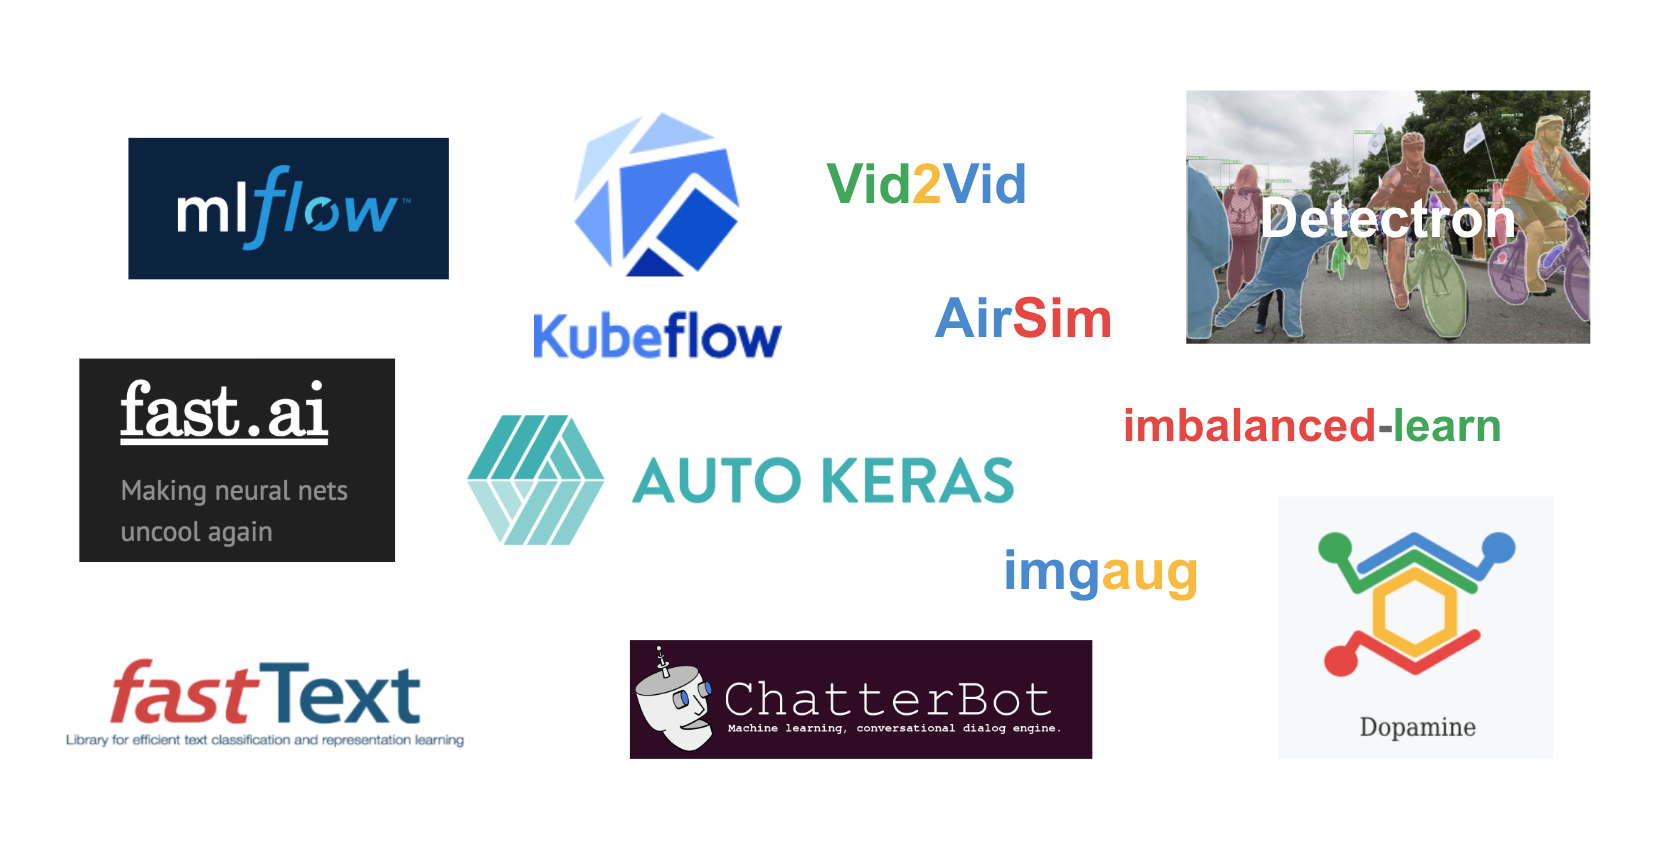
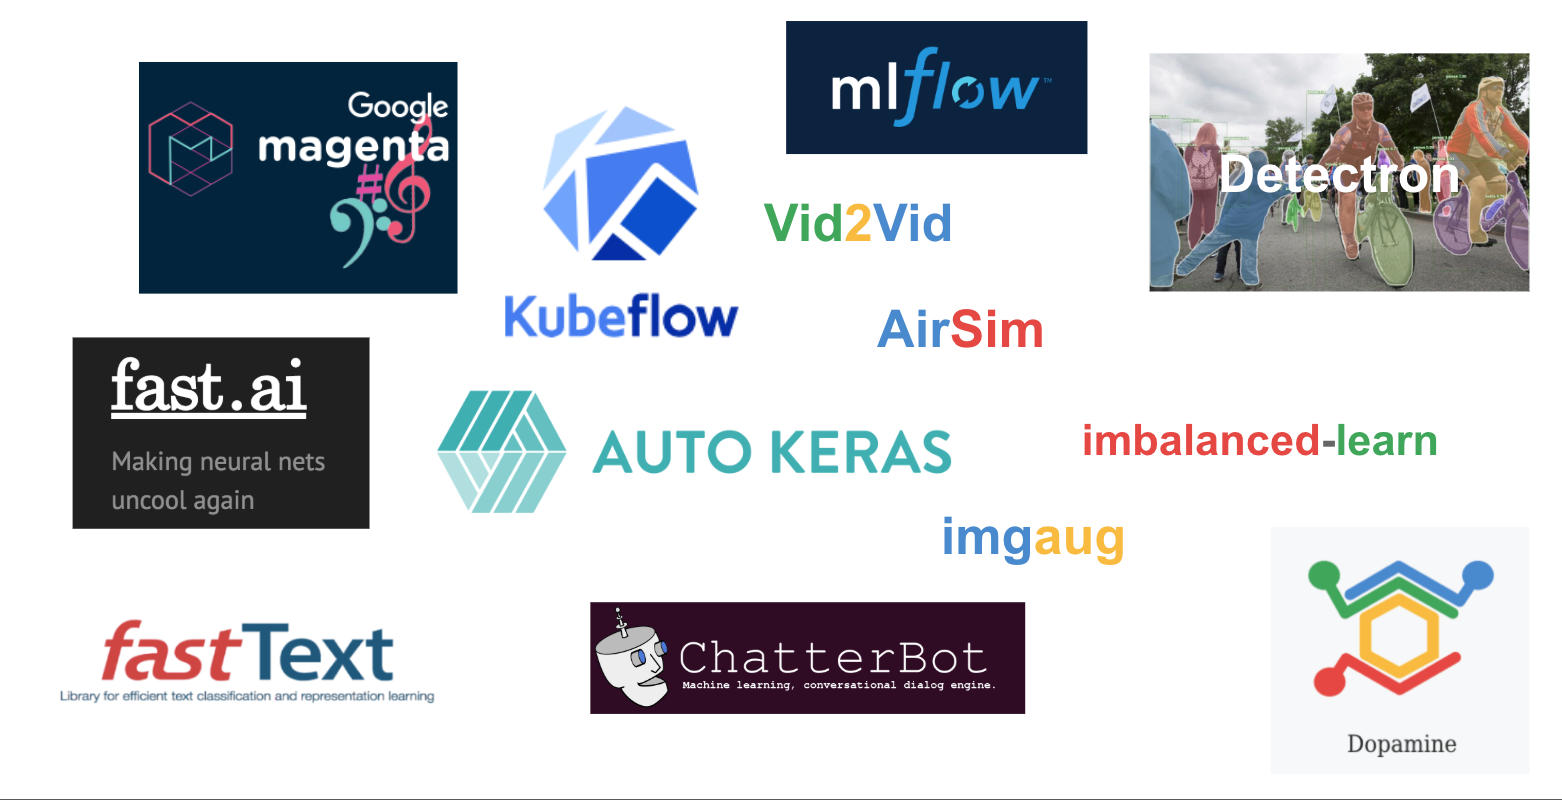
no message

diff --git a/_posts/2019-1-6-2018_ML_projects.md b/_posts/2019-1-6-2018_ML_projects.md
@@ -13,6 +13,16 @@ image: http://tykimos.github.io/warehouse/2019-1-6-2018_ML_projects_title.png
 ![img](http://tykimos.github.io/warehouse/2019-1-6-2018_ML_projects_title.png)
 
 ---
+### Magenta
+
+마젠타는 미술과 음악을 창조하는 인공지능 알고리즘을 설계하는 프로젝트입니다. 재미있고 다양한 데모와 함께 인공지능의 창작 가능성을 보실 수 있습니다. 이 프로젝트의 궁극적인 목적은 사람들이 좋아하는 새로운 악기를 만들어내는 것이라고 하네요. 창작 AI에 관심을 가지시는 분들은 마젠타 프로젝트와 함께 시작해보시는 것은 어떨까요?
+
+![img](http://tykimos.github.io/warehouse/2019-1-6-2018_ML_projects_11.gif)
+
+* [웹사이트](https://magenta.tensorflow.org)
+* [깃헙링크](https://github.com/tensorflow/magenta)
+
+---
 ### Fast.ai
 
 Pytorch를 기반으로 만들어진 Fast.ai 라이브러리는 복잡한 구현 없이 딥러닝 모델을 생성하고 학습시킬 수 있도록 개발되었습니다. 문제 정의, 모델 아키텍처, 전처리 및 학습 등 모두 사용하기 쉽게 간결한 방식을 제공하기 때문에 딥러닝 입문 및 교육용으로 적합합니다. 문서화도 잘되어 있다고 하네요.
